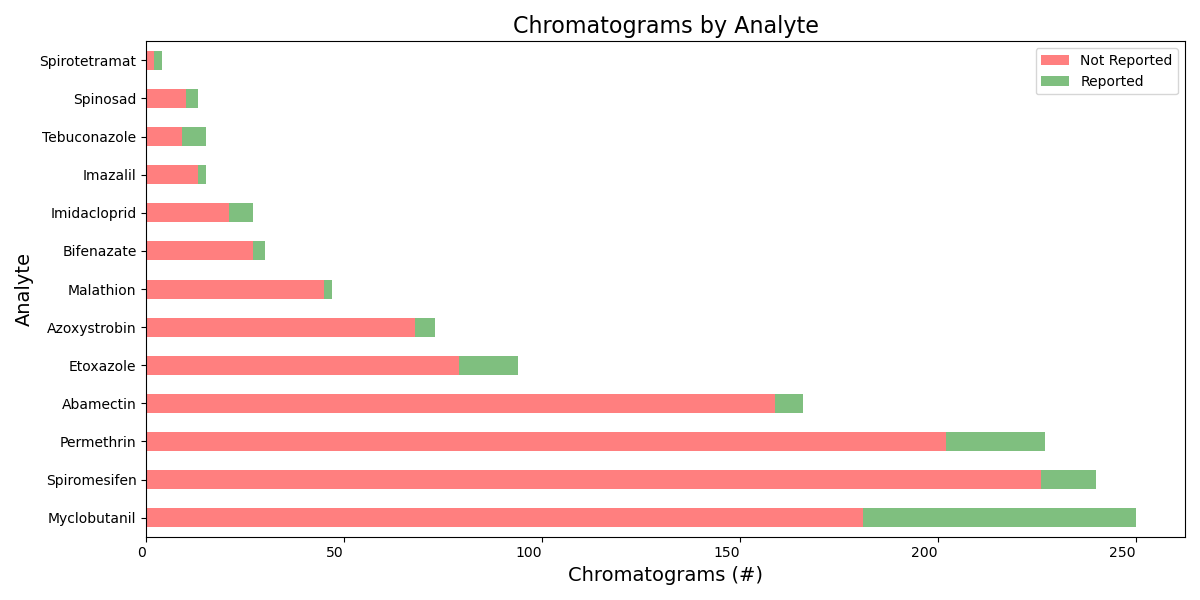
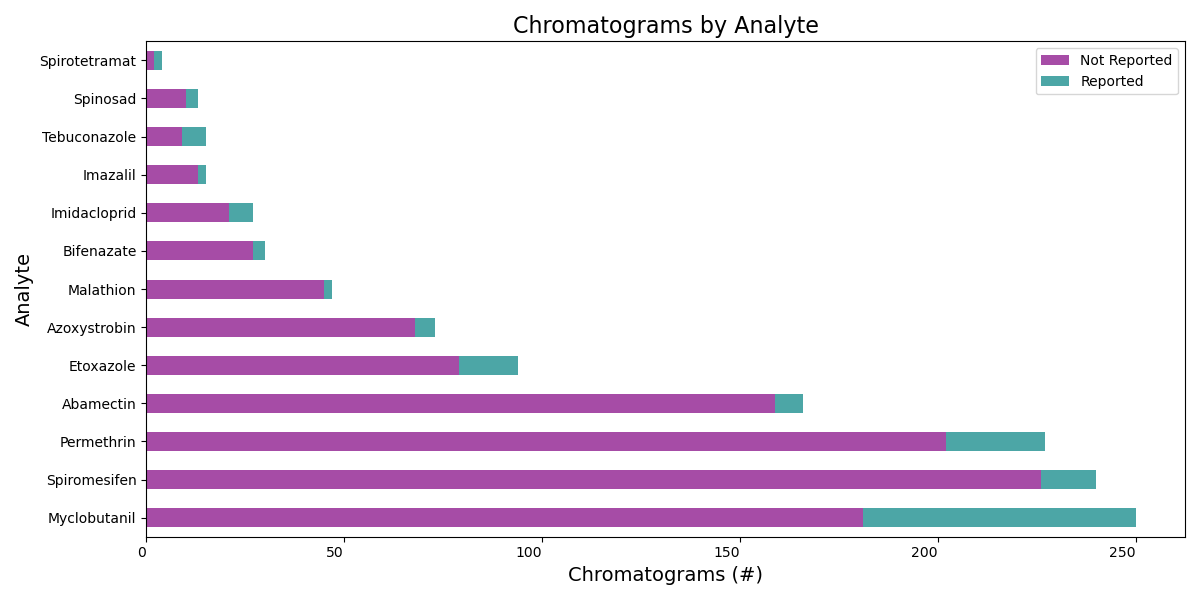
update README

diff --git a/src/plots.py b/src/plots.py
@@ -173,7 +173,7 @@ def pca_3d(fig, df, X_scale, y, pca_3):
     plt.show()
 
 
-def compound_bar_plot(df, fig_name='plots.png', save=False):
+def compound_bar_plot(df, eval_type, fig_name='plots.png', save=False):
     ''''Plot a stacked bar plot with each bar representing the number of
     data points for each analyte separated into reported and unreported
     Parameters
@@ -181,28 +181,37 @@ def compound_bar_plot(df, fig_name='plots.png', save=False):
     df: DataFrame
         dataframe containing analyte column and reported column
         dataframe cannot be onehot encoded
+    eval_type: str
+        either 'reported' or 'correct'
     fig_name: str
         name for saving plot
     save: bool
         if true, save to images folder, else show plto
     '''
-    compound_group_df = df.groupby(['analyte', 'reported']).count()
+    compound_group_df = df.groupby(['analyte', eval_type]).count()
     compound_group_df = compound_group_df['Sample Name']
-    compound_group_df = compound_group_df.reset_index(level='reported')
-    compound_group = pd.pivot(compound_group_df, columns='reported',
+    compound_group_df = compound_group_df.reset_index(level=eval_type)
+    compound_group = pd.pivot(compound_group_df, columns=eval_type,
                               index=None)
     compound_group['total'] = (compound_group['Sample Name'][0]
                                + compound_group['Sample Name'][1])
     compound_group.sort_values('total', inplace=True, ascending=False)
     compound_group.pop('total')
-    compound_group.plot(kind='barh', stacked=True, color=['r', 'g'],
-                        alpha=0.5, figsize=(12, 6))
+    if eval_type == 'reported':
+        colors = ['purple', 'teal']
+    else:
+        colors = ['r', 'g']
+    compound_group.plot(kind='barh', stacked=True, color=colors,
+                        alpha=0.7, figsize=(12, 6))
     plt.xticks(horizontalalignment='right')
     plt.ylabel('Analyte', fontsize=14)
     plt.xlabel('Chromatograms (#)', fontsize=14)
     plt.title('Chromatograms by Analyte', fontsize=16)
     plt.tight_layout()
-    plt.legend(['Not Reported', 'Reported'])
+    if eval_type == 'reported':
+        plt.legend(['Not Reported', 'Reported'])
+    else:
+        plt.legend(['Incorrect', 'Correct'])
     if save:
         plt.savefig(fig_name)
     else:
@@ -402,12 +411,12 @@ def feature_comparison(columns, coefs, features, label_values,
     sort_feat, sort_no_a_feat, sort_d_feat = sort_columns(columns, features)
 
     # Limit to top 10 features
-    # sort_coefs = sort_coefs[-11:-1]
-    # sort_no_a_coefs = sort_no_a_coefs[-11:-1]
-    # sort_d_coefs = sort_d_coefs[-11:-1]
-    # sort_feat = sort_feat[-11:-1]
-    # sort_no_a_feat = sort_no_a_feat[-11:-1]
-    # sort_d_feat = sort_d_feat[-11:-1]
+    sort_coefs = sort_coefs[-11:-1]
+    sort_no_a_coefs = sort_no_a_coefs[-11:-1]
+    sort_d_coefs = sort_d_coefs[-11:-1]
+    sort_feat = sort_feat[-11:-1]
+    sort_no_a_feat = sort_no_a_feat[-11:-1]
+    sort_d_feat = sort_d_feat[-11:-1]
 
     # Formatting for Logistic Regression
     pos_coefs = [0 if coef < 0 else coef for coef in sort_coefs]
@@ -607,17 +616,17 @@ def confusion_plot(tp, fp, fn, tn, fig_name='plot.png', save=False):
     save: bool
         if true save the plot, if false show the plot
     '''
-    fig, ax = plt.subplots(1, 1, figsize=(12, 6))
-    ax.barh([1, 2], [tp, fn], color=['g', 'g'], alpha=0.5, left=[tn, fp],
-            height=0.3, align='center', label='Reported')
-    ax.barh([1, 2], [tn, fp], color=['r', 'r'], alpha=0.5, left=[0, 0],
-            height=0.3, align='center', label='Not Reported')
-    ax.legend(title='Actual Outcome')
+    fig, ax = plt.subplots(1, 1, figsize=(8, 4))
+    ax.barh([1, 2], [tp, tn], color=['g', 'g'], alpha=0.5, left=[0, 0],
+            align='center', label='Correct')
+    ax.barh([1, 2], [fp, fn], color=['r', 'r'], alpha=0.5, left=[tp, tn],
+            align='center', label='Incorrect')
+    ax.legend()
     ax.set_title('Classifications\n(Threshold = 0.55)', fontsize=16)
-    ax.set_ylabel('Predicted Results', fontsize=14)
-    ax.set_xlabel('Chromatgrams (#)', fontsize=14)
+    ax.set_ylabel('Predictions', fontsize=14)
+    ax.set_xlabel('Chromatograms (#)', fontsize=14)
     ax.set_yticks([1, 2])
-    ax.set_yticklabels(['Correct', 'Incorrect'])
+    ax.set_yticklabels(['Should     \nBe Reported', 'Should Not \nBe Reported'])
     plt.tight_layout()
     if save:
         plt.savefig(fig_name)
@@ -752,11 +761,11 @@ if __name__ == '__main__':
              ('area_ratio', 'height_ratio'),
              ('Analyte Peak Width (min)',
               'Analyte Peak Width at 50% Height (min)')]
-    # scatter_plots(all_df.full_df, pairs, save=False)
+    scatter_plots(all_df.full_df, pairs, save=False)
 
     pca_plots(all_df.full_df)
 
-    # lasso_plot(all_df, pairs)
+    lasso_plot(all_df, pairs)
 
     var_corr = all_df.full_df.corr()
     sns.heatmap(var_corr)

diff --git a/src/misc.py b/src/misc.py
@@ -135,6 +135,9 @@ def incorrect_classifications(X_test, y_test, model, thresh,
     new_df['fn'] = np.where(
         new_df['preds'] == 0, np.where(new_df['reported'] == 1, 1, 0), 0
     )
+    new_df['correct'] = np.where(
+        new_df['fp'] == 0, np.where(new_df['fn'] == 0, 1, 0), 0
+        )
     sample_df = pd.read_csv(sample_file, index_col='Unnamed: 0')
     full_df = merge_df_on_index(new_df, sample_df)
     fp_index = list(new_df[new_df['fp'] == 1].index.values)
@@ -158,7 +161,7 @@ if __name__ == '__main__':
     # Create train/test sets
     X, y = Data.pop_reported(all_df.full_df)
     all_df.train_test_split(test_size=0.33)
-    X_train, y_train = all_df.pop_reported(all_df.train_df)
+    X_train, y_train = all_df.under_sampling(all_df.train_df)
     X_test, y_test = all_df.pop_reported(all_df.test_df)
 
     # Create models from best hyperparameter searches
@@ -192,7 +195,7 @@ if __name__ == '__main__':
     )
     print(scores)
     mod_boost = mod_class_list[2]
-    '''
+
     y_prob = mod_boost.predict_proba(X_test)
     y_df = pd.DataFrame(y_test)
     y_df['prob'] = y_prob[:, 1]
@@ -202,7 +205,7 @@ if __name__ == '__main__':
 
     # Pickle XGBoost model
     pickle_model(mod_class_list[2].model, 'boosted.pkl')
-    '''
+
     # plot feature importance and coefs
     log_reg = model_list[0][0]
     log_tup = ('green', 'Logistic Regression', 'Coefficient Value')
@@ -218,26 +221,26 @@ if __name__ == '__main__':
     feature_comparison(columns, coefs, features2, labels,
                        fig_name='../images/rand_log_features.png',
                        save=False)
-    '''
+
     # Evaluate XGBoost model
     # Confusion Matrix (Bar Chart)
     cost_matrix = (0, 0, -1, 0.5)
     tp, fp, fn, tn = mod_boost.confusion_matrix(X_test, y_test.values, 0.55)
-    confusion_plot(tp, fp, fn, tn, fig_name = '../images/bar_conf_long .png',
+    confusion_plot(tp, fp, fn, tn, fig_name = '../images/bar_conf_long.png',
                    save=False)
     print(tp, fp, fn, tn)
-    
+
     # List of incorrectly classified chromatograms
     fp_df, fn_df, full_df = incorrect_classifications(X_test, y_test,
                                                       mod_boost, 0.4)
     print(fn_df)
     print(fp_df)
     
-    # full_df[full_df['reported'] == 1]['probas'].hist(by=full_df['analyte'])
-    # plt.show()
-    # full_df[full_df['reported'] == 0]['probas'].hist(by=full_df['analyte'])
-    # plt.show()
-    # breakpoint()
+    full_df[full_df['reported'] == 1]['probas'].hist(by=full_df['analyte'])
+    plt.show()
+    full_df[full_df['reported'] == 0]['probas'].hist(by=full_df['analyte'])
+    plt.show()
+
     full_df.sort_values('probas', inplace=True)
     full_df['fn_count'] = full_df.groupby('analyte')['fn'].transform(pd.Series.cumsum)
     full_df['fn_count'].plot()
@@ -271,8 +274,8 @@ if __name__ == '__main__':
     # plt.show()
 
     # Determine class imbalance after undersampling
-    fp_df, fn_df, full_df = incorrect_classifications(X_train, y_train,
+    fp_df, fn_df, full_df = incorrect_classifications(X_test, y_test,
                                                       mod_boost, 0.55)
-    compound_bar_plot(full_df, fig_name='../images/compound_long_under.png',
-                      save=True)
-    '''
+    compound_bar_plot(full_df, 'correct', fig_name='../images/compound_long_preds.png',
+                      save=False)
+    

diff --git a/src/model_class.py b/src/model_class.py
@@ -237,7 +237,7 @@ if __name__ == '__main__':
     X_test, y_test = all_df.pop_reported(all_df.test_df)
 
     # Find best hyperparameters
-    '''
+
     logistic = LogisticRegression(class_weight='balanced')
     Log = Model(logistic, f1_score)
     distributions = dict(C=uniform(loc=0, scale=4),
@@ -259,7 +259,7 @@ if __name__ == '__main__':
     # ({'max_features': 'auto', 'min_samples_leaf': 0.004338663070259263,
     # 'min_samples_split': 7, 'n_estimators': 200},
     # F1 Score: 0.7767690571695022)
-    '''
+
     grad_boost = XGBClassifier(random_state=43)
     GB = Model(grad_boost, f1_score)
     distributions_gb = dict(eta=[0.01, 0.025, 0.05, 0.075, 0.1, 0.125,
@@ -284,7 +284,7 @@ if __name__ == '__main__':
     # 'reg_alpha': 0.01, 'objective': 'reg:linear', 'min_child_weight': 5,
     # 'max_depth': 5, 'gamma': 0, 'eta': 0.075, 'colsample_by_tree': 1},
     # F1 Score: 0.7961882282491608)
-    '''
+
     # With under sampling
     # ({'subsample': 0.7, 'scale_pos_weight': 2, 'reg_lambda': 0,
     # 'reg_alpha': 0.005, 'objective': 'binary:logistic',
@@ -320,4 +320,4 @@ if __name__ == '__main__':
     print(GB.hyper_search(distributions_gb, X_train, y_train))
     print(cv_results)
     print(cv_results.shape)
-    '''
+

diff --git a/src/net.py b/src/net.py
@@ -106,4 +106,4 @@ if __name__ == '__main__':
     # 3: increase possible values for epochs and neurons
         - ({'init_mode': 'normal', 'neurons2': 15, 'neurons1': 50, 'activation1': 'softplus', 'weight_constraint': 8, 'epochs': 200, 'batch_size': 100, 'dropout_rate': 0.3, 'optimizer': 'Adamax', 'activation2': 'softplus'}, 0.5009534580885144)
         - ({'optimizer': 'Nadam', 'dropout_rate': 0.1, 'weight_constraint': 6, 'activation1': 'softsign', 'epochs': 200, 'neurons2': 100, 'batch_size': 100, 'activation2': 'tanh', 'init_mode': 'lecun_uniform', 'neurons1': 5}, 0.5149827328835631)
-    # 4: large increase in hidden layers (20)
+    # 4: large increase in hidden layers (20) '''

diff --git a/README.md b/README.md
@@ -99,7 +99,7 @@ Figure 6: ROC curve and F1 score comparison over various thresholds for logistic
 ![importance](images/coef_features.png)
 Figure 7: Coefficient Values and Feature Importances
 
-The coefficients assigned by the logistic regression follow the importance a chemist would put on these features. The peak area is used to calculate the concentration and all of the pesticide have concentration thresholds, where samples are not reported if they do not exceed the threshold. The peak width is part of the calculation for peak area, and thus reltaed to concentration. The difference between the observed retention time and the expected retention time is the highest negative coefficient. This also makes sense because the further the peak is from the expected retention time the less likely it is to be the compound of interest and more likely to be an interference that would not be reported. Peak assymetry and baseline slope are both features that describe the appearance of the peak. These features are likely to increase with noisy peak integration that would be less likely to be reported.
+The coefficients assigned by the logistic regression follow the importance a chemist would put on these features. The peak area is used to calculate the concentration and all of the pesticide have concentration thresholds, where samples are not reported if they do not exceed the threshold. The peak width is part of the calculation for peak area, and thus related to concentration. The difference between the observed retention time and the expected retention time is the highest negative coefficient. This also makes sense because the further the peak is from the expected retention time the less likely it is to be the compound of interest and more likely to be an interference that would not be reported. Peak assymetry and baseline slope are both features that describe the appearance of the peak. These features are likely to increase with noisy peak integration that would be less likely to be reported.
 
 ## Random Forest and XGBoost
 ### Comparison
@@ -115,26 +115,29 @@ The XGBoost model put much more relative importance to the categorical features 
 Figure 9: Feature Importances for XGBoost Classifier and Random Forest Classifier
 
 ## Best Model Evalutaion
-The XGBoost model performed the best. It had the highest F1 score at 0.86 and did the best categorizing the reported chromatograms, only missing 9 reported chromatograms. The following chart shows all of the misclassified samples from the test data.
-
-![bar_confusion](images/bar_confusion.png)
-Figure 10: Bar chart of incorrectly classified chromatograms
-
-This chart was created using the threshold that optimized the F1 score. It is likely that a lab would want to change the threshold used for predictions in order to reduce false negatives, or to reduce false positives. In order to find the best threshold for predictions a profit curve can be used to compare the threshold to a profit. The profit is determined by adding a cost or profit to each of the classifications. For this profit curve all predicted positive samples were assigned a profit of $0. Currently all chromatograms are being visually inspected by a chemist, and if this model is implemented chromatograms that are predicted positive will continue to be inspected. True negatives were assigned a profit of $0.25 because there will be no visual inspection on these chromatograms, saving time. Finally, false negatives were assigned a loss of $1.00, these chromatograms are the ones that should be reported but no chemist evaluates because the model predicts they should not be reported. 
+The XGBoost model performed the best. It had the highest F1 score at 0.86 and did the best categorizing the reported chromatograms, only missing 9 reported chromatograms at the threshold that optimized the F1 score (0.25). It is likely that a lab would want to change the threshold used for predictions in order to reduce false negatives, or to reduce false positives. In order to find the best threshold for predictions a profit curve can be used to compare the threshold to a profit. The profit is determined by adding a cost or profit to each of the classifications. For this profit curve all predicted positive samples were assigned a profit of $0. Currently all chromatograms are being visually inspected by a chemist, and if this model is implemented chromatograms that are predicted positive will continue to be inspected. True negatives were assigned a profit of $0.25 because there will be no visual inspection on these chromatograms, saving time. Finally, false negatives were assigned a loss of $1.00, these chromatograms are the ones that should be reported but no chemist evaluates because the model predicts they should not be reported. 
 
 ![profit_curve](images/profit_curve.png)
-Figure 11: Profit curve comparing profits to thresholds
+Figure 10: Profit curve comparing profits to thresholds
 
-These profit curves show that the best performance from the XGBoost model comes when undersampling is used to adjust for the class imbalance. Undersampling does not result in the best F1 score, but it does the best job of reducing false negatives which are more costly than false positives. Undersampling allows for using a relatively higher threshold of 0.4 without resulting in as many false positives as the other sampling techniques.
+These profit curves show that the best performance from the XGBoost model comes when undersampling is used to adjust for the class imbalance. Undersampling does not result in the best F1 score, but it does the best job of reducing false negatives which are more costly than false positives. Undersampling allows for using a relatively higher threshold of 0.55 without resulting in as many false positives as the other sampling techniques. The following chart shows how well the model performed on the test data.
+
+![bar_confusion](images/compound_long.png)
+Figure 11: Bar chart of classified chromatograms from test data
 
 Since undersampling reduces the number of smaples available for training the model a learning curve was generated to evaluate if more data would improve the model performance. 10 fold cross validation was performed with varying amounts of the data to determine the accuracy of the model when trained with different numbers of data points. Accuracy was used to evaluate the cross validation because the undersampling will result in balanced classes. The learning curve shows that the model is still improving with increasing sample numbers. Thus it would be beneficial to obtain more data for the model to use for training.
 
 ![learning_curve](images/learning.png)
+Figure 12: Learning Curve with undersampling 
 
 
-The following are images of incorrectly classified chromatograms...
+The following are images of incorrectly classified chromatograms and indicate some of the difficulties that this model faces. The false negative is an example of an Abamectin chromatogram and this pesticide is notoriously difficult to detect. the false positive is an example of an interference in the Permethrin chromatogram that is at the wrong retention time. I think this model could eventually learn to correctly identify these chromatograms given more examples of these types of chromatograms in the training data.
 
-- Images of incorrectly classified chromatograms
+![false_neg](images/false_neg_example.png)
+Figure 13: Abamectin False Negative
+
+![false_pos](images/fasle_pos_example.png)
+Figure 14: Permethrin Interference False Positive
 
 
 # Conclusion
@@ -143,5 +146,6 @@ Both the logistic regression and random forest models are capable of classifing 
 This type of classification could be used to reduce the number of chemists required to support operations in a number of labs using chromatographic testing. Even if the lab does not create enough chromatograms to employ chemists full time on visual inspection of data, this model would allow some of the chemist time to be used for lab work, validations or research and development. 
 
 ## Future Work
-- Determine F-statistic and p-values for logistic regressions
-- Identify incorrectly classified chromatograms to determine what is causing problems for the models
+- Deploy a flask app to allow chemist to upload a batch and receive a list of chromatograms to review
+- Work with other chromatographic methods (clinical methods or doping methods)
+- Use validation data for training the model and design experiments to test weaknesses.
